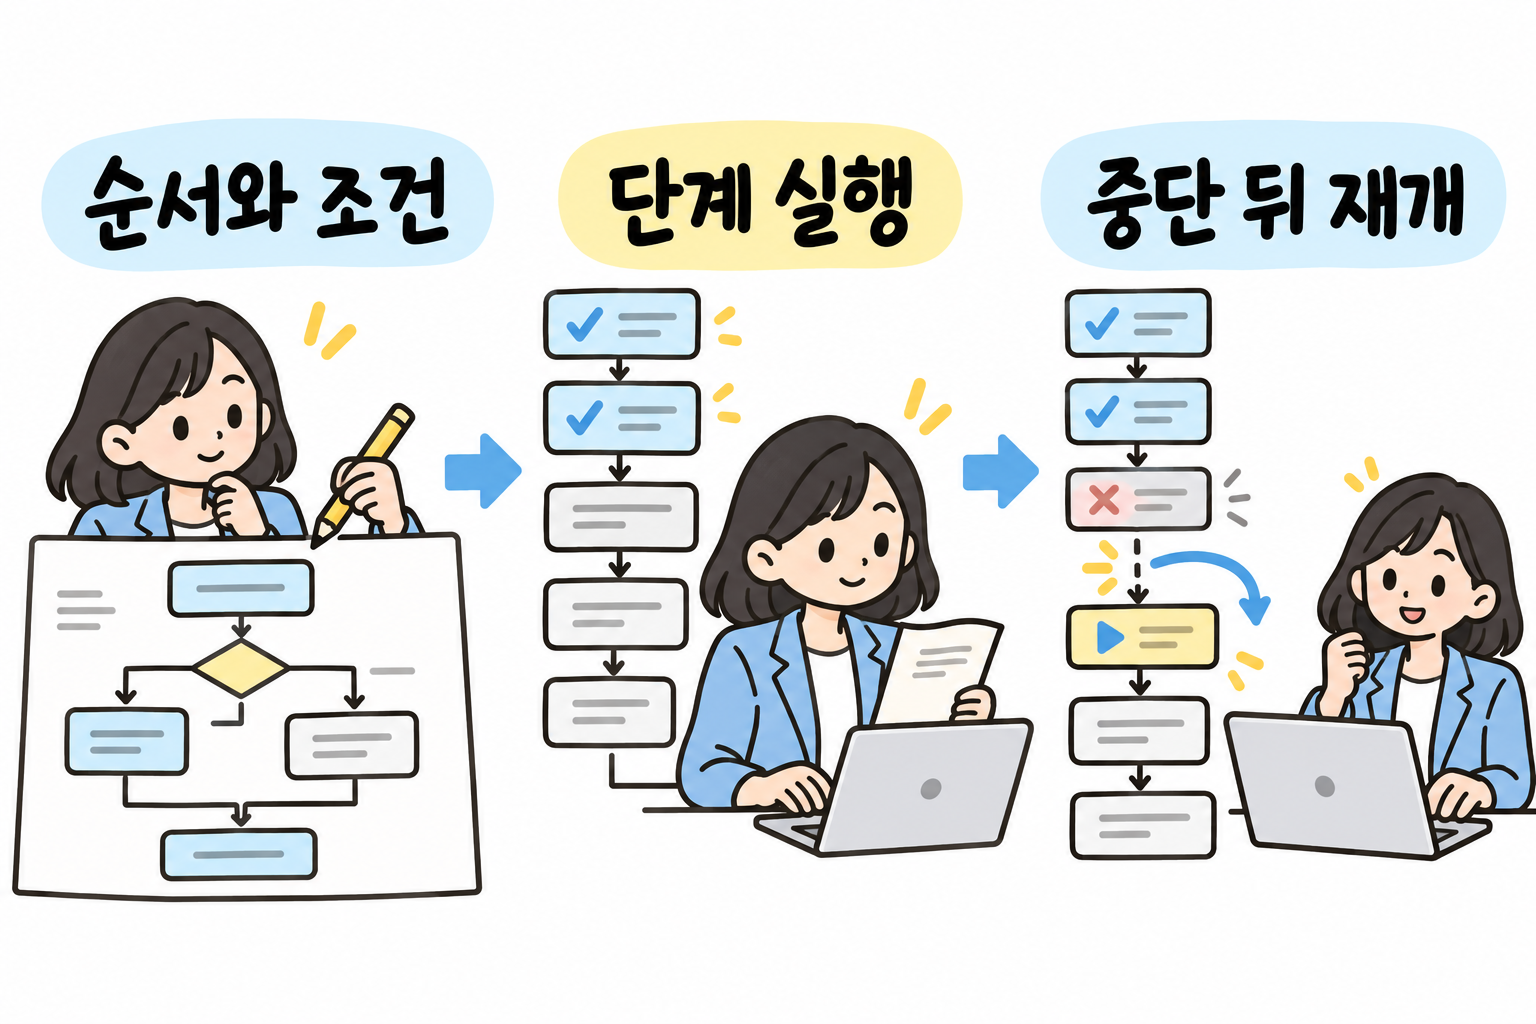
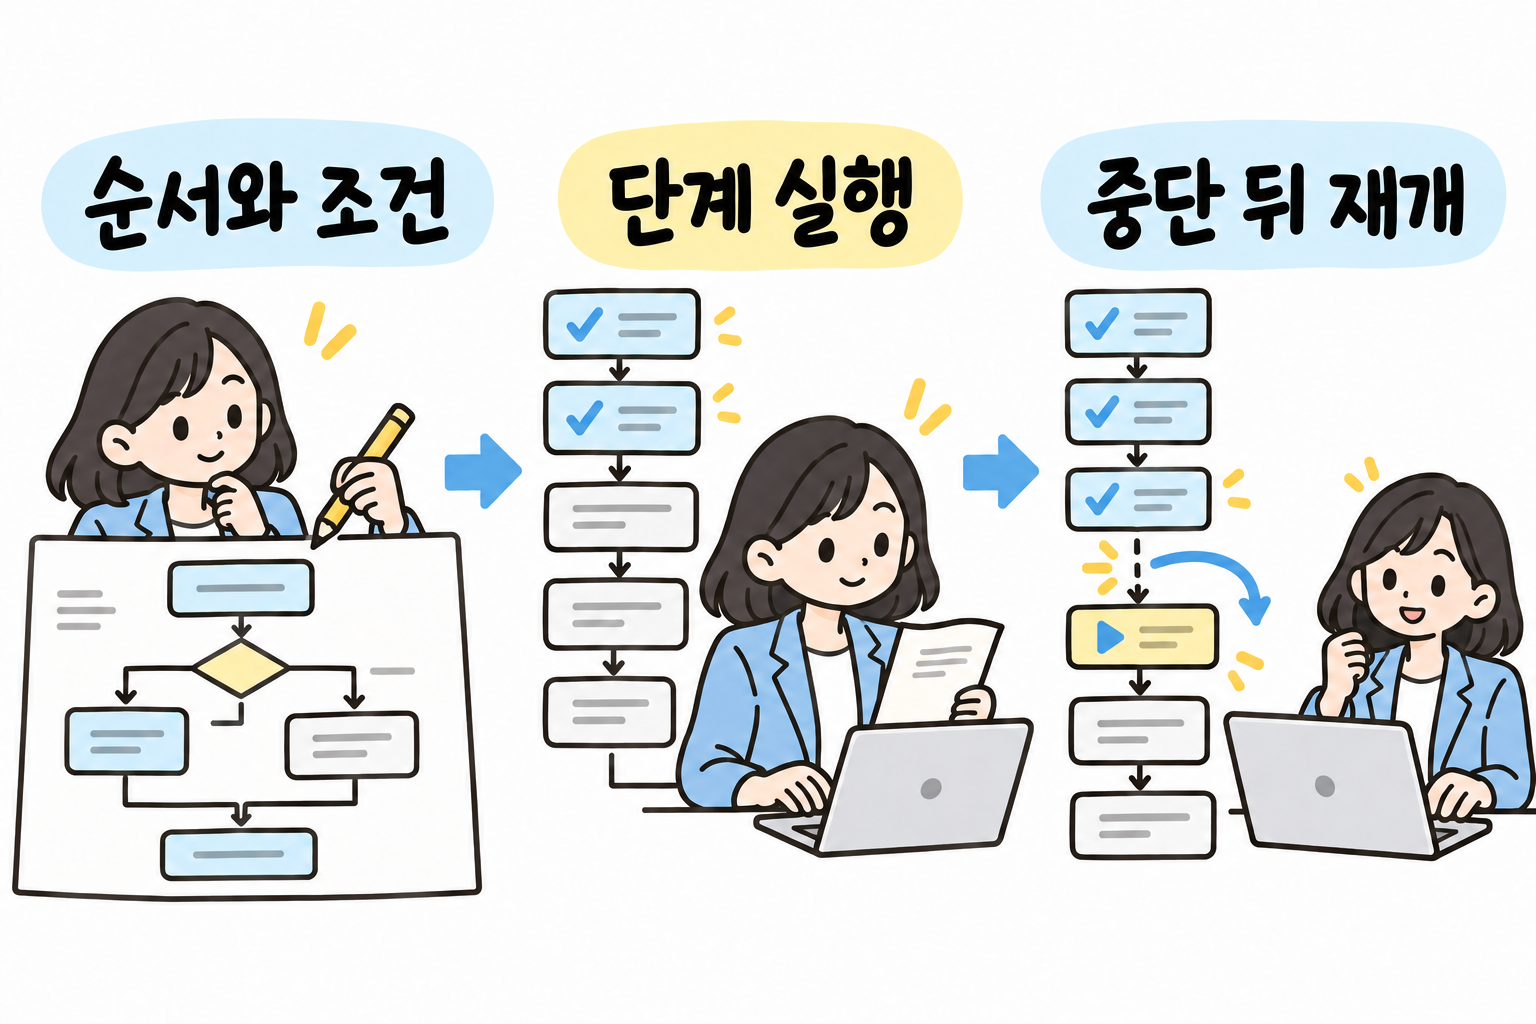
docs/images/expert-implementation/factory-implementation-overview.png 외 10개 수정

diff --git a/docs/images/expert-implementation/공장-구현-그림-프롬프트.md b/docs/images/expert-implementation/공장-구현-그림-프롬프트.md
@@ -1,0 +1,49 @@
+# 공장 구현 설계 일러스트
+
+제작일: 2026-10-22. 내장 `image_gen`으로 생성한 뒤 같은 도구로 연결 관계를 수정했다. 별도 API·CLI를 호출하지 않았다.
+
+사용 위치: [공장 구현 설계](<../../../공장 구현 설계.md>)의 도입부.
+
+결과 파일: [factory-implementation-overview.png](factory-implementation-overview.png).
+
+## 표현할 내용
+
+전문 지식·규칙·도구를 준비하고, 이를 함께 사용하는 전문가들을 조립·시험한 뒤 실제 업무를 처리한다. 공통 실행 프로그램은 한 번 만들어 재사용한다. 업무 경험은 다시 검증해서 반영한다. 코드 이름·DB 구조 같은 상세는 본문에 둔다.
+
+기존 프로젝트의 설명 그림을 직접 보고 하늘색·노랑·초록, 짙은 윤곽선과 성인 업무 인물의 그림체를 참고했다. 첫 생성에 외부 이미지는 입력하지 않았다. 수정에는 이 작업에서 생성한 원본만 사용했다.
+
+## 최초 생성 프롬프트
+
+```text
+Create ONE finished Korean educational illustration for the document "공장 구현 설계". This is an explanatory illustration, not a software screenshot. Landscape 3:2 composition, high resolution, opaque pure white background. Professional but friendly Japanese explanatory hand-drawn flat illustration: confident clean charcoal outlines, simple adult characters with black hair and pale blue clothes, natural two arms/two hands, pale sky-blue shapes and small soft yellow/green accents. Match the understated established style of a Korean illustrated instruction manual. Avoid 3D, photorealism, glowing effects, gradients, decorative machinery and robot factories. Artwork must be comprehensible before reading text.
+
+Main concept: we build a shared execution program once, prepare domain knowledge, assemble and test different specialists, and use them to FINISH real work. The specialists share ONE underlying platform. It is software, not manufacturing physical robots. Knowledge and successful or failed work experience feed into improvement ONLY after testing.
+
+Layout: large clear title at top "전문가를 만드는 공장". Three spacious illustrated scenes left to right, with two simple clear blue arrows between them, no tangled lines. Each scene has a short numbered heading in large legible Korean:
+"1 지식 준비"
+"2 전문가 제작"
+"3 업무 완수"
+
+Scene 1: an adult analyst compares a book, a document, and a real work example, gathering evidence into three tidy open folders marked "지식", "규칙", "도구". Show an actual act of extracting/organizing practical knowledge, not a random person at a laptop.
+Scene 2: an adult builder connects those three folders to ONE common software base, forming three specialist profiles displayed together as simple upright cards labelled "문서", "계산", "운영", with relevant small document, calculator, gear drawings. A magnifying glass and a checked test sheet clearly show testing before use; its only label is "시험". No claim all professions or all skills are automatically perfect.
+Scene 3: an adult specialist at a desk receives a request folder, works on a document/spreadsheet, checks the completed work, and hands a finished checked document to a customer. Integrate a very simple four-part path beneath this scene reading exactly "접수 → 처리 → 검증 → 전달". The delivery is a clear handoff and the scene focuses on completed useful work.
+
+Below the three scenes, a thin blue return arrow runs from the work result at the right back towards knowledge preparation at the left, without crossing any forward arrow or character, with the short label "경험 반영 · 다시 검증". It must visibly point left. Leave generous breathing room.
+
+At the bottom, draw ONE continuous pale-blue platform/bench that supports the whole arrangement, rather than separate platforms for each specialist. Put a simple computer/server and three small meaningful symbols for saved records, a tool, and resuming a paused task along the front. Large central label exactly "공통 실행 프로그램". Directly below, one concise sentence in dark charcoal: "공통 기반은 한 번 만들고, 전문 지식과 도구를 연결한다". Make it unmistakable that the common platform is built once and reused.
+
+Korean text must be spelled correctly and readable when placed in a document about 1000px wide. Use short labels ONLY, no extra explanatory paragraphs, no invented labels, no English text, no logo, no watermark. Make the main heading, three step headings and shared base label the most readable elements. Maintain white margins and avoid tiny decorative icons. Final artwork, polished hand-drawn editorial information illustration, clean silhouettes, deliberate whitespace.
+```
+
+## 연결 관계 수정 프롬프트
+
+```text
+Edit this Korean explanatory illustration. Keep the entire image composition, all characters, style, colors, all Korean text, the shared bottom platform, the left scene, the right scene, and the feedback arrow unchanged. Make ONLY one conceptual correction in the middle scene "2 전문가 제작": the current three separate arrows incorrectly imply that 지식 is used only for 문서, 규칙 only for 계산, and 도구 only for 운영. ALL THREE inputs must jointly supply ALL THREE specialists. Remove those three direct folder-to-card arrows. Draw a simple shared gathering connector under the three folders: three very short stems join one blue horizontal line, one central downward arrow leaves that shared line and enters a single enclosing rounded frame around the ENTIRE group of three specialist cards (문서, 계산, 운영). The arrow stops at the TOP BORDER of this group frame, not on the 계산 card. Put generous space between the connector and the three cards. The shared enclosing frame must visibly contain all three cards together; existing individual card drawings and labels remain. A tiny adjustment of vertical spacing in this middle scene is allowed to make the shared connector clear. Do not add any new words or symbols. No connections cross labels or figures. This is a precise diagram correction: a pool of 지식+규칙+도구 feeds a group of three specialists. Preserve the title and all other details.
+```
+
+## 확인 결과
+
+- 지식·규칙·도구가 공통 연결선을 거쳐 문서·계산·운영 전문가 묶음으로 들어간다. 입력 하나가 전문가 하나에만 대응하는 오해를 수정했다.
+- 접수·처리·검증·전달의 순서, 경험 반영 전에 다시 검증하는 조건, 하나의 공통 기반이 표시돼 있다.
+- 제목·단계·라벨·하단 문구의 한글과 방향, 인물·소품 잘림을 실제 이미지에서 확인했다.
+- 생성 결과를 다시 그리거나 압축하지 않고 프로젝트에 복사했다. 기존 그림은 덮어쓰지 않았다.

diff --git a/공장 구현 설계.md b/공장 구현 설계.md
@@ -2,6 +2,8 @@
 
 **공통 실행 프로그램을 한 번 만들고, 분야별 지식·판단법·도구·평가를 연결해 여러 전문가를 만든다. 만들어진 전문가는 같은 프로그램에서 업무를 접수하고, 처리하고, 검증하고, 전달하며, 이후의 변화까지 관리한다.**
 
+![지식·규칙·도구를 준비하고 함께 연결해 문서·계산·운영 전문가를 제작·시험한다. 전문가는 업무를 접수·처리·검증·전달하고, 경험은 다시 검증해서 반영한다. 모든 과정은 한 번 만든 공통 실행 프로그램을 함께 사용한다.](docs/images/expert-implementation/factory-implementation-overview.png)
+
 79개 재료의 개별 기술 선정은 [전문가 정의의 확정 재료 설계](<전문가 에이전트 정의 1.md>)를 기준으로 한다. 이 문서는 그 재료를 어느 프로그램에 넣고, 어떤 자료를 주고받으며, 어떤 순서로 개발할지 정한다. 아래 폴더·함수·자료형은 **구현할 명세**다. 문서 작성이 프로그램 구현이나 실제 업무 능력 검증의 완료를 뜻하지 않는다.
 
 ## 1. 완성할 것은 무엇인가
